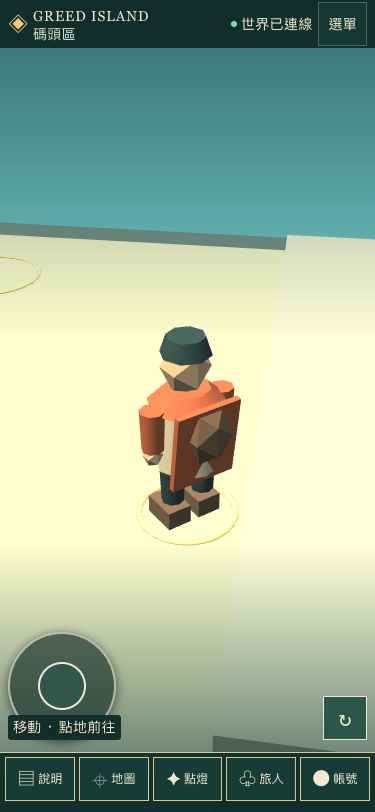
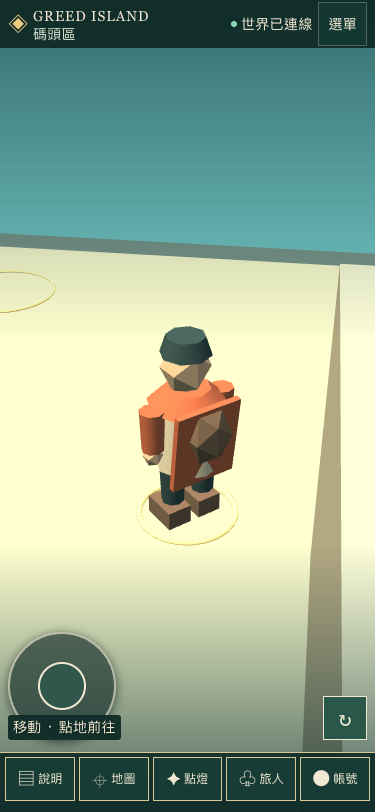
test(web): stabilize blocked-camera joystick setup

Changed region(s): [[0.0, 0.2771, 1.0, 0.9236], [0.1173, 0.3387, 0.1467, 0.3695], [0.088, 0.3695, 0.1173, 0.4002]]

diff --git a/e2e/mobile-layout.spec.ts b/e2e/mobile-layout.spec.ts
@@ -212,16 +212,32 @@ async function readServerPosition(page: Page) {
   })
 }
 
-async function steerAxisTo(page: Page, axis: 'x' | 'z', target: number) {
-  let position = await readServerPosition(page)
-  for (let index = 0; index < 64; index++) {
-    const delta = target - position[axis]
-    if (Math.abs(delta) <= .12) return position
-    const strength = Math.sign(delta) * Math.min(1, Math.max(.15, Math.abs(delta) / .4))
-    await steerJoystick(page, axis === 'x' ? strength : 0, axis === 'z' ? strength : 0, 125)
-    position = await readServerPosition(page)
+async function holdJoystickUntil(page: Page, axis: 'x' | 'z', targetValue: number, tolerance = .15) {
+  const initial = await readServerPosition(page)
+  if (Math.abs(initial[axis] - targetValue) <= tolerance) return initial
+  const direction = Math.sign(targetValue - initial[axis])
+  const rect = await page.locator('.mp-stick').boundingBox()
+  if (!rect) throw new Error('Joystick is not visible.')
+  const center = { x: rect.x + rect.width / 2, y: rect.y + rect.height / 2 }
+  const target = {
+    x: center.x + (axis === 'x' ? direction : 0) * (rect.width / 2 - 5),
+    y: center.y - (axis === 'z' ? direction : 0) * (rect.height / 2 - 5),
   }
-  throw new Error(`Could not steer ${axis} to ${target}; last position=${JSON.stringify(position)}`)
+  await page.mouse.move(center.x, center.y)
+  await page.mouse.down()
+  try {
+    await page.mouse.move(target.x, target.y)
+    let position = initial
+    for (let elapsed = 0; elapsed < 15_000; elapsed += 150) {
+      await page.waitForTimeout(150)
+      position = await readServerPosition(page)
+      if (direction > 0 ? position[axis] >= targetValue - tolerance : position[axis] <= targetValue + tolerance) return position
+    }
+    throw new Error(`Joystick missed ${axis}=${targetValue}; last position=${JSON.stringify(position)}`)
+  } finally {
+    await page.mouse.up()
+    await page.waitForTimeout(350)
+  }
 }
 
 async function canvasPixelMetrics(page: Page) {
@@ -429,11 +445,9 @@ test('edge camera keeps the actor visible and renders scene detail at mobile and
     obstructed: el.getAttribute('data-camera-obstructed') === 'true',
     orbitOffset: Number(el.getAttribute('data-camera-orbit-offset')),
   }))
-  // Use a clear western/southern aisle to approach the wall, regardless of the fixture account's start point.
-  await steerAxisTo(page, 'x', -3)
-  await steerAxisTo(page, 'z', 4.2)
-  await steerAxisTo(page, 'x', 4.4)
-  await steerAxisTo(page, 'z', 10)
+  // Reach the wall with real joystick input and stop from authoritative server coordinates.
+  await holdJoystickUntil(page, 'x', 4.1)
+  await holdJoystickUntil(page, 'z', 10.4)
   const accountPosition = await readAccountPosition(page)
   expect(accountPosition.tileId, 'account drawer confirms dock tile').toBe('t_dock')
   expect(accountPosition.x, `before turn x=${accountPosition.x}`).toBeGreaterThanOrEqual(3.4)

diff --git a/PROGRESS.md b/PROGRESS.md
@@ -24,9 +24,9 @@
 
 - Camera handling uses a **4-unit minimum when blocked**, tries nearby orbit angles to find an unobstructed ray, and keeps obstructed player visibility at **≥0.6**. No-hit camera distance and fade formula remain unchanged. Canvas read-only diagnostics: `data-camera-distance`, `data-player-visibility`, `data-camera-obstructed`, `data-camera-orbit-offset`.
 - Before: account #5 at **x=3.896,z=10.512**; ray hit `region-obstacle-1` at **2.036**, camera distance **1.686**, player visibility **0**, `isContextLost=false`, canvas/backing/viewport **375×812**; drawElements **5,076**. Screenshot `packages/web/evidence/mobile-layout/camera-blocked-before.png`.
-- After: local E2E account #4 at **x=4.20,z=10.40**; camera distance **8**, visibility **1**, orbit offset **0.60**. Pixel edge ratios: 375 **0.0392**, 393 **0.0375**, 430 **0.0342**, 1280 **0.0151**. Screenshot `packages/web/evidence/mobile-layout/camera-blocked-after.png`.
-- Reload after the obstruction restored distance **8**, visibility **1** and no hit; after opposite/up joystick moves, visibility remained **1**.
-- `edge camera keeps the actor visible and renders scene detail at mobile and desktop sizes`: local pass at 375/393/430/1280; E2E suite **11/11 passed**. `npm run build:web` passed; web tests **57 files / 521 tests passed**. CI is pending this commit.
+- After: local E2E account #44 at **x=3.70,z=11.00**; blocker ray selects orbit offset **0.60**, camera distance **8**, player visibility **1**. Pixel edge ratios: 375 **0.0392**, 393 **0.0375**, 430 **0.0342**, 1280 **0.0204**. Screenshot `packages/web/evidence/mobile-layout/camera-blocked-after.png`.
+- Reload after the obstruction restored distance **8**, visibility **1** and no hit; opposite/up joystick motion and dragging the camera toward the wall kept the player visible. Drag case selected orbit offset **-0.60**.
+- `edge camera keeps the actor visible and renders scene detail at mobile and desktop sizes`: local pass at 375/393/430/1280; the mobile-layout E2E suite **11/11 passed** after adjusting joystick steering to stop at server-reported coordinates. `npm run build:web` passed; web tests **57 files / 521 tests passed**. CI run `38515431879` failed because the earlier steering loop timed out; the updated test is being pushed for a fresh run.
 
 ## 2026-10-14 — Current main merged into legacy import branch
 
